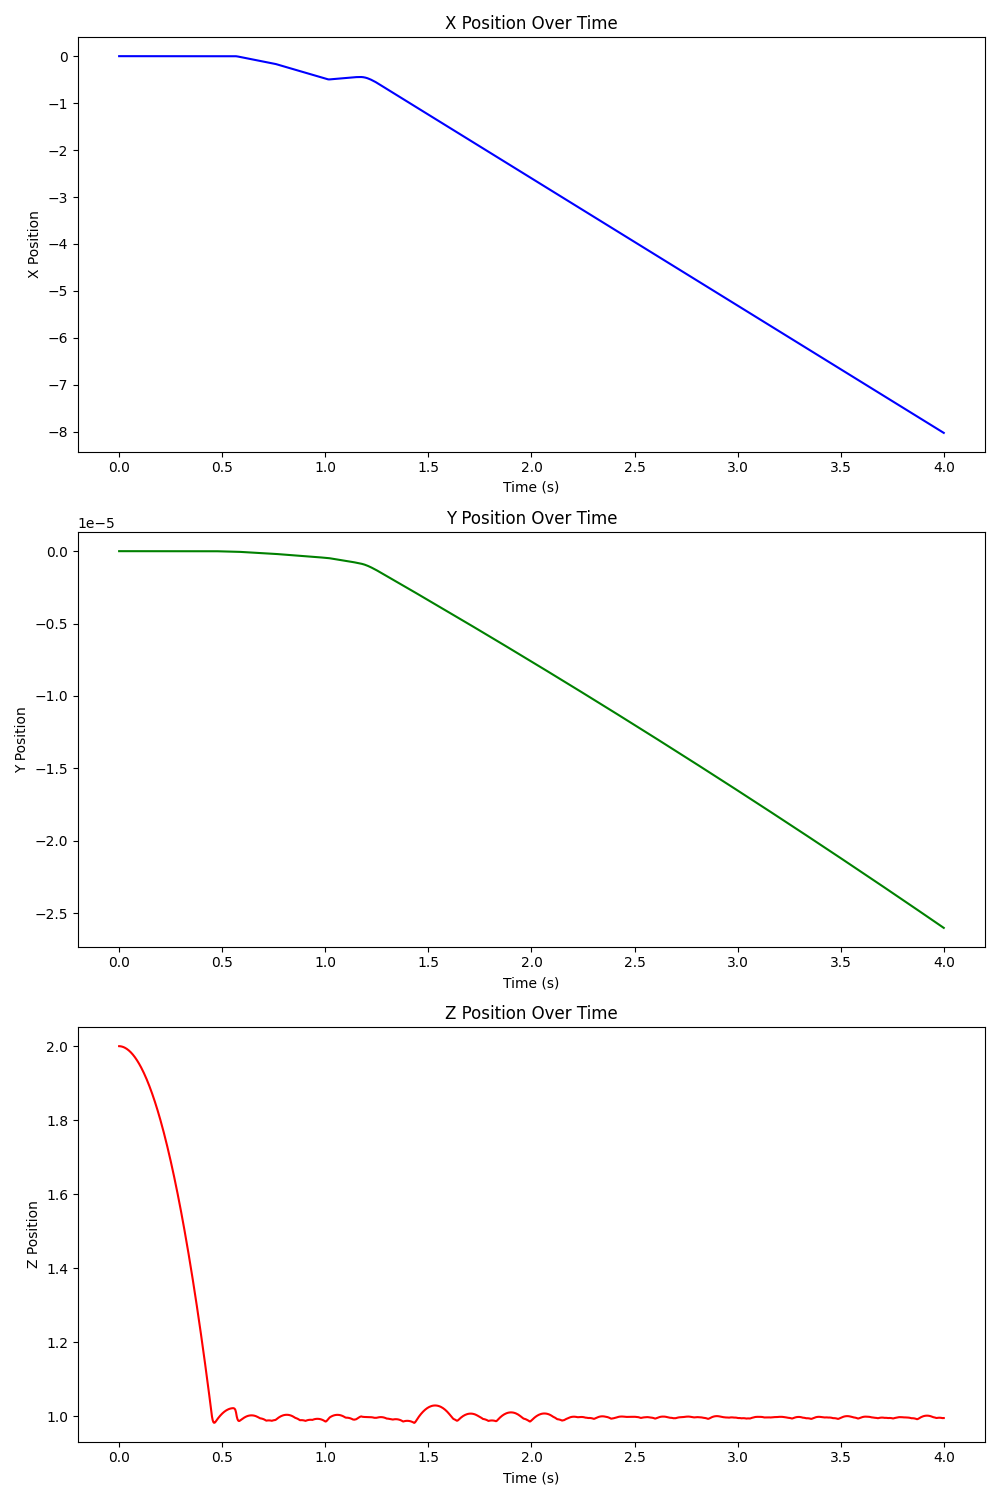
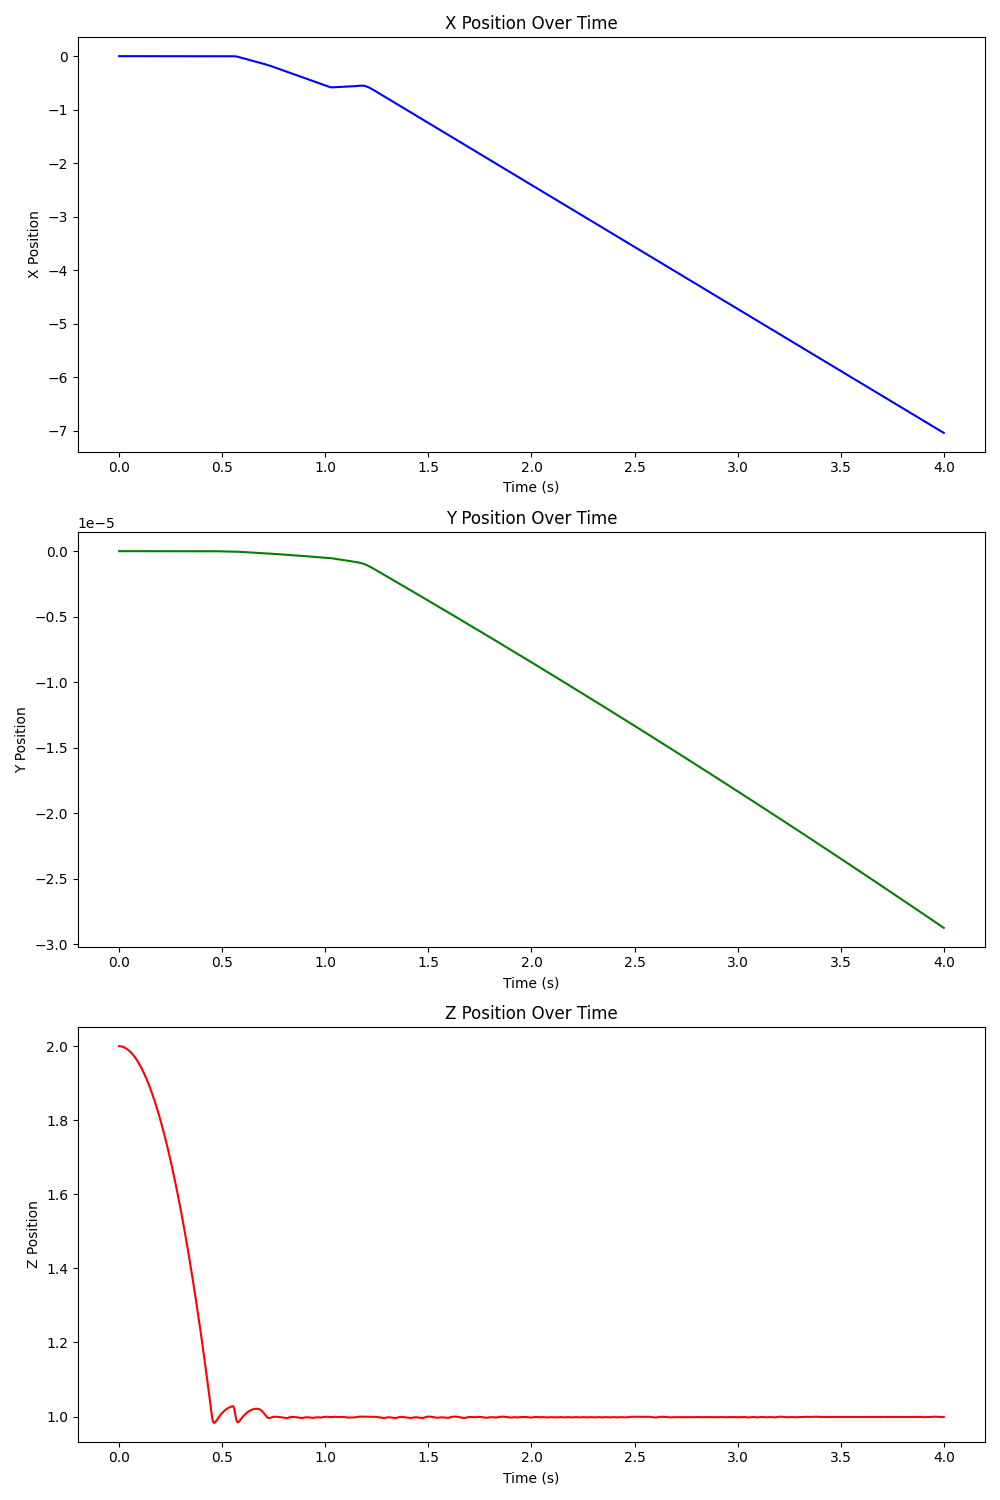
Resolved memory issues

diff --git a/src/axion/nsn_engine2.py b/src/axion/nsn_engine2.py
@@ -329,7 +329,7 @@ class NSNEngine(Integrator):
 
             # Check if the residual is within the tolerance
             res_norm = np.linalg.norm(self.h.numpy())
-            if res_norm < 0.05:
+            if res_norm < 0.01:
                 # print(f"Converged with residual norm: {res_norm}")
                 break
 
@@ -342,7 +342,7 @@ class NSNEngine(Integrator):
                 tol=self.tolerance,
                 maxiter=300,
                 M=M,
-                use_cuda_graph=False,
+                use_cuda_graph=True,
             )
 
             # g := J^T @ Δλ - g

diff --git a/demos/ball_bounce.py b/demos/ball_bounce.py
@@ -5,8 +5,8 @@ import warp.optim
 import warp.sim.render
 from axion.nsn_engine2 import NSNEngine
 
-wp.config.mode = "debug"
-wp.config.verify_cuda = True
+# wp.config.mode = "debug"
+# wp.config.verify_cuda = True
 # wp.config.verify_fp = True
 
 DEBUG = False
